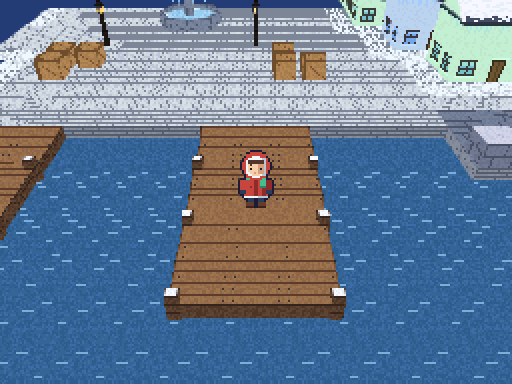
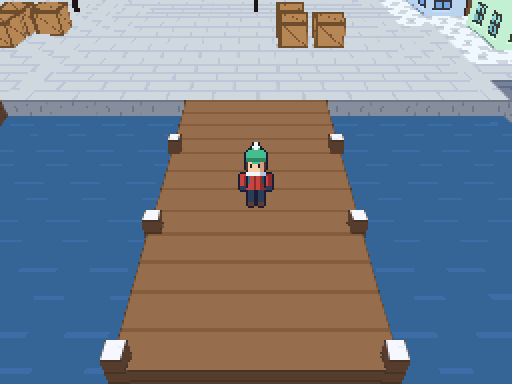
Smoother walk and run, calmer ground, closer camera
Five-pose walk and run cycles with a darker far leg, so the legs alternate clearly, a fixed
shoulder, and a run lean. Four phases per tile instead of two. Ground textures use big, soft
shapes, and the camera is close enough that they draw 1:1 at the player, which stops the
shimmer. Loads the town palette as 256 entries, because the last colour came out black.

diff --git a/tools/art/make_player.py b/tools/art/make_player.py
@@ -3,10 +3,10 @@
 #
 #   python tools/art/make_player.py art/sprites/player.png
 #
-# Sheet: 128x256, frames are 32x32, three columns per row.
-#   Rows 0-3: walk  (down, up, left, right)   columns: stand, step 1, step 2
-#   Rows 4-7: run   (down, up, left, right)   columns: passing, stride 1, stride 2
-#   Rows 8-11: bike (down, up, left, right)   columns: coast, pedal 1, pedal 2
+# Sheet: 256x512, frames are 32x32.
+#   Rows 0-3: walk  (down, up, left, right)  columns: passing, half, full, half, full
+#   Rows 4-7: run   (down, up, left, right)  columns as walk (the two legs alternate)
+#   Rows 8-11: bike (down, up, left, right)  columns: coast, pedal 1, pedal 2
 # Right is always the left row mirrored. 15 colours + transparent, so it converts to a
 # 4bpp (16 colour) DS texture.
 
@@ -165,80 +165,93 @@ def body_side(f, dx=0, dy=0, bottom=22):
     f.rect(12 + dx, 14 + dy, 18 + dx, 15 + dy, "W")
 
 
-# --- Walk --------------------------------------------------------------------------
+# --- Walk and run ------------------------------------------------------------------
+#
+# Both use five poses: passing, then half and full stride on each leg. q is the stride:
+# 0 passing, +-0.5 half, +-1 full. Positive means the near (left on screen) leg leads.
 
-def walk_down(step, back=False):
+STRIDES = (0, 0.5, 1, -0.5, -1)
+
+
+def line(f, x0, y0, x1, y1, width, c):
+    """A thick line, for limbs that pivot from a fixed joint."""
+    steps = max(abs(x1 - x0), abs(y1 - y0), 1)
+    for i in range(steps + 1):
+        x = round(x0 + (x1 - x0) * i / steps)
+        y = round(y0 + (y1 - y0) * i / steps)
+        f.rect(x, y, x + width - 1, y + width - 1, c)
+
+
+def limb_arm(f, sx, sy, hx, hy, sleeve, outline=True):
+    """An arm from a fixed shoulder to the hand. Only the hand moves, so the shoulder
+    stays put through the walk."""
+    if outline:
+        line(f, sx + 1, sy, hx + 1, hy, 2, "o")    # dark back edge, clean on the diagonal
+    line(f, sx, sy, hx, hy, 2, sleeve)
+    f.rect(hx, hy + 1, hx + 1, hy + 2, "N")
+
+
+def limb_leg(f, hip, foot, top, lift, trouser):
+    """A leg from the hip to the foot. The far leg uses a darker colour, so the eye can
+    tell the two legs apart and see them alternate."""
+    ankle = 28 - lift
+    line(f, hip, top, foot, ankle, 3, trouser)
+    f.rect(foot - 1, ankle + 1, foot + 2, ankle + 2, "B")
+
+
+def strides_front(q, full_lift, full_swing):
+    """Foot lifts and arm swings for the front and back views."""
+    lift = round(abs(q) * full_lift)
+    swing = round(abs(q) * full_swing)
+    lifts = (lift, 0) if q > 0 else (0, lift)
+    swings = (-swing, swing) if q > 0 else (swing, -swing)
+    return lifts, swings
+
+
+def walk_down(q, back=False):
     f = Frame()
-    # Opposite arm and leg: the arm on the side of the lifted foot swings back (shorter
-    # from the front), the other swings forward (longer).
-    lift = {0: (0, 0), 1: (1, 0), 2: (0, 1)}[step]
-    swing = {0: (0, 0), 1: (-2, 2), 2: (2, -2)}[step]
-    legs_front(f, *lift)
+    lifts, swings = strides_front(q, 2, 2)
+    legs_front(f, *lifts)
     torso_front(f, back)
-    arm_front(f, -1, 15, 22 + swing[0])
-    arm_front(f, 1, 15, 22 + swing[1])
+    arm_front(f, -1, 15, 22 + swings[0])
+    arm_front(f, 1, 15, 22 + swings[1])
     (head_back if back else head_front)(f)
     return f.outline()
 
 
-def walk_left(step):
+def walk_left(q):
     f = Frame()
-    if step == 0:
-        f.rect(14, 23, 17, 28, "N")
-        f.rect(13, 29, 17, 30, "B")
-    else:
-        front, back = (11, 17) if step == 1 else (12, 16)
-        f.rect(back, 23, back + 2, 27, "N")
-        f.rect(back, 28, back + 3, 29, "B")
-        f.rect(front + 1, 23, front + 3, 28, "N")
-        f.rect(front, 29, front + 3, 30, "B")
+    limb_arm(f, 16, 16, 16 - round(q * 3), 20, "r", outline=False)   # far arm, behind
+    limb_leg(f, 15, 15 + round(q * 3), 23, 0, "p")                   # far leg
+    limb_leg(f, 15, 15 - round(q * 3), 23, 0, "N")                   # near leg
     body_side(f)
-    ax = {0: 14, 1: 11, 2: 17}[step]  # arm swings opposite the front leg
-    arm_side(f, ax, 15, 22)
+    limb_arm(f, 14, 16, 14 + round(q * 3), 20, "r")                  # near arm
     head_side(f)
     return f.outline()
 
 
-# --- Run: longer strides, a bob, arms bent and pumping ------------------------------
-
-def run_down(step, back=False):
+def run_down(q, back=False):
     f = Frame()
-    dy = 0 if step == 0 else 1  # body dips on each stride
-    lift = {0: (0, 0), 1: (3, 0), 2: (0, 3)}[step]
-    legs_front(f, *lift, top=23 + dy)
+    dy = -1 if abs(q) == 1 else 0   # up off the ground at full stride
+    lifts, swings = strides_front(q, 3, 3)
+    legs_front(f, *lifts, top=23 + dy)
     torso_front(f, back, dy)
-    # Bent arms: the forward arm's mitten comes up to the chest, the other drops back.
-    arms = {0: (21, 21), 1: (18, 23), 2: (23, 18)}[step]
-    arm_front(f, -1, 15 + dy, arms[0] + dy)
-    arm_front(f, 1, 15 + dy, arms[1] + dy)
-    (head_back if back else head_front)(f, dy)
+    arm_front(f, -1, 15 + dy, 20 + swings[0] + dy)
+    arm_front(f, 1, 15 + dy, 20 + swings[1] + dy)
+    (head_back if back else head_front)(f, dy + 1)   # head dipped into the run
     return f.outline()
 
 
-def run_left(step):
+def run_left(q):
     f = Frame()
-    dy = 0 if step == 0 else 1
-    if step == 0:  # passing: one leg under the body, the other bent just behind it
-        f.rect(16, 23, 18, 26, "N")
-        f.rect(17, 26, 19, 27, "N")
-        f.rect(17, 28, 20, 28, "B")
-        f.rect(13, 23, 15, 28, "N")
-        f.rect(12, 29, 15, 30, "B")
-    else:
-        # Stride: legs open at an angle, the back foot just off the ground. Kept well
-        # short of horizontal so it reads as a jog, not a kick.
-        f.rect(16, 23 + dy, 18, 25 + dy, "N")   # back thigh
-        f.rect(17, 26, 19, 27, "N")             # back shin, angled down
-        f.rect(18, 28, 21, 28, "B")
-        f.rect(12, 23 + dy, 14, 27, "N")        # front leg reaching forward
-        f.rect(11, 28, 13, 28, "N")
-        f.rect(10, 29, 13, 30, "B")
-    body_side(f, -1, dy)  # leaning into the run
-    if step == 0:
-        arm_side(f, 14, 15 + dy, 21 + dy)
-    else:
-        arm_side(f, 13 if step == 1 else 16, 15 + dy, 21 + dy, bent=step == 1)
-    head_side(f, -1, dy)
+    dy = -1 if abs(q) == 1 else 0   # up off the ground at full stride
+    reach = round(q * 5)
+    limb_arm(f, 15, 16 + dy, 15 - round(q * 3), 19 + dy, "r", outline=False)
+    limb_leg(f, 15, 15 + reach, 23 + dy, 2 if q > 0 else 0, "p")     # the trailing foot lifts
+    limb_leg(f, 15, 15 - reach, 23 + dy, 2 if q < 0 else 0, "N")
+    body_side(f, -1, dy)
+    limb_arm(f, 14, 16 + dy, 14 + round(q * 3), 19 + dy, "r")        # bent, pumping
+    head_side(f, -2, dy)                                             # leaning into the run
     return f.outline()
 
 
@@ -318,13 +331,14 @@ def to_image(frame, mirror=False):
 
 
 def main(out):
-    sheet = Image.new("RGBA", (128, 512), (0, 0, 0, 0))
-    sets = [(walk_down, walk_left), (run_down, run_left), (bike_down, bike_left)]
-    for i, (down, left) in enumerate(sets):
+    sheet = Image.new("RGBA", (256, 512), (0, 0, 0, 0))
+    sets = [(walk_down, walk_left, STRIDES), (run_down, run_left, STRIDES),
+            (bike_down, bike_left, (0, 1, 2))]
+    for i, (down, left, poses) in enumerate(sets):
         rows = [
-            [down(s) for s in range(3)],
-            [down(s, back=True) for s in range(3)],
-            [left(s) for s in range(3)],
+            [down(s) for s in poses],
+            [down(s, back=True) for s in poses],
+            [left(s) for s in poses],
         ]
         for r, frames in enumerate(rows):
             for c, frame in enumerate(frames):

diff --git a/src/main.cpp b/src/main.cpp
@@ -234,13 +234,20 @@ static void draw_player(void)
     float px, pz;
     player_pos(&px, &pz);
 
-    // On foot: the leading foot for the first half of a step, then the passing frame.
-    // On the bike the pedals keep turning for the whole step and coast when stopped.
-    int frame;
-    if (player.mode == BIKE)
-        frame = player.step > 0 ? player.foot : 0;
-    else
-        frame = player.step > STEP_FRAMES[player.mode] / 2 ? player.foot : 0;
+    // On foot, each tile plays half stride, full stride, half stride, passing, on one leg
+    // and then the other. On the bike the pedals keep turning and coast when stopped.
+    int frame = 0;
+    if (player.step > 0 && player.mode == BIKE)
+    {
+        frame = player.foot;
+    }
+    else if (player.step > 0)
+    {
+        int len = STEP_FRAMES[player.mode];
+        int quarter = (len - player.step) * 4 / len;
+        if (quarter < 3)
+            frame = (player.foot == 1 ? 1 : 3) + (quarter == 1 ? 1 : 0);
+    }
     int u0 = frame * 32, v0 = (player.mode * 4 + player.dir) * 32;
 #ifdef TEST_POSE
     // Test builds only: show one sprite frame, for screenshots.
@@ -256,7 +263,7 @@ static void draw_player(void)
     // A 32x32 billboard leaning back to face the camera (about 39 degrees down).
     // Sized so one sprite pixel is one screen pixel at the game camera: any other scale
     // drops or doubles pixels unevenly, because the DS has no texture filtering.
-    const float w = 0.183f, h = 0.355f, up = 0.78f, back = -0.63f;
+    const float w = 0.125f, h = 0.2425f, up = 0.78f, back = -0.63f;
     NE_PolyBegin(GL_QUAD);
     NE_PolyColor(RGB15(31, 31, 31));
     NE_PolyTexCoord(u0, v0 + 32);
@@ -281,10 +288,12 @@ static const float VIEW_SIDE = 14.0f * CAM_ZOOM, VIEW_NORTH = 16.0f * CAM_ZOOM, 
 
 static void draw_scene(void)
 {
-    // Black 2 style: high and behind, tilted down at the player.
+    // Black 2 style: high and behind, tilted down at the player. At this distance a tile is
+    // 32 pixels wide at the player, so the 32x32 ground textures draw 1:1 and don't shimmer,
+    // and sideways movement is a whole number of pixels per frame.
     NE_CameraSet(camera,
-                 cam_x, 1.5f * CAM_ZOOM, cam_z + 1.7f * CAM_ZOOM,
-                 cam_x, 0.0f, cam_z - 0.15f,
+                 cam_x, 1.025f * CAM_ZOOM, cam_z + 1.16f * CAM_ZOOM,
+                 cam_x, 0.0f, cam_z - 0.10f,
                  0, 1, 0);
     NE_CameraUse(camera);
 
@@ -329,7 +338,10 @@ int main(int argc, char **argv)
     NE_Material *town_mat = NE_MaterialCreate();
     NE_MaterialTexLoad(town_mat, NE_PAL256, 128, 128, NE_TEXGEN_TEXCOORD, saltmere_tex_bin);
     NE_Palette *town_pal = NE_PaletteCreate();
-    NE_PaletteLoad(town_pal, saltmere_pal_bin, saltmere_pal_bin_size / 2, NE_PAL256);
+    // Always a full 256 entries: with a shorter palette the last colour came out black.
+    static u16 town_colours[256];
+    memcpy(town_colours, saltmere_pal_bin, saltmere_pal_bin_size);
+    NE_PaletteLoad(town_pal, town_colours, 256, NE_PAL256);
     NE_MaterialSetPalette(town_mat, town_pal);
 
     const u32 *offsets = (const u32 *)saltmere_bin;
@@ -341,7 +353,7 @@ int main(int argc, char **argv)
     }
 
     player_mat = NE_MaterialCreate();
-    NE_MaterialTexLoad(player_mat, NE_PAL16, 128, 512,
+    NE_MaterialTexLoad(player_mat, NE_PAL16, 256, 512,
                        (NE_TextureFlags)(NE_TEXGEN_TEXCOORD | NE_TEXTURE_COLOR0_TRANSPARENT),
                        player_tex_bin);
     NE_Palette *player_pal = NE_PaletteCreate();

diff --git a/tools/art/make_atlas.py b/tools/art/make_atlas.py
@@ -42,16 +42,16 @@ def shade(c, k):
     return tuple(max(0, min(255, int(v * k))) for v in c)
 
 
-# 0: plaza cobbles, staggered rows of rounded stones with dark joints.
+# Ground cells use big shapes and soft 2-texel joints. Thin lines swim as the camera
+# moves, because the DS has no mipmaps.
+# 0: plaza slabs, two rows of two.
 STONE = (200, 208, 220)
-JOINT = (172, 180, 196)
-fill(0, [STONE, shade(STONE, 0.95), shade(STONE, 1.04)])
-for row in range(4):
-    y0 = row * 8
-    off = 4 if row % 2 else 0
-    rect(0, 0, y0, C - 1, y0, JOINT)
-    for x in range(off, C, 8):
-        rect(0, x, y0, x, y0 + 7, JOINT)
+JOINT = (186, 194, 208)
+rect(0, 0, 0, C - 1, C - 1, STONE)
+rect(0, 0, 0, C - 1, 1, JOINT)
+rect(0, 0, 16, C - 1, 17, JOINT)
+rect(0, 0, 0, 1, 15, JOINT)
+rect(0, 16, 16, 17, C - 1, JOINT)
 
 # 1: cobbles under a thin dusting of snow
 for y in range(C):
@@ -65,20 +65,16 @@ fill(2, [(240, 244, 250), (228, 236, 246), (250, 252, 255)], [5, 3, 2])
 rect(2, 4, 20, 13, 21, (226, 234, 246))  # soft drift shadows
 rect(2, 18, 9, 27, 10, (226, 234, 246))
 
-# 3: dock planks, running across the tile, with nails
+# 3: dock planks, two boards across the tile
 WOOD = (150, 108, 72)
-fill(3, [WOOD, shade(WOOD, 0.92), shade(WOOD, 1.06)])
-for y0 in range(0, C, 8):
-    rect(3, 0, y0, C - 1, y0, (120, 86, 58))
-    for x in (3, 28):
-        put(3, x, y0 + 4, (60, 52, 50))
+rect(3, 0, 0, C - 1, C - 1, WOOD)
+rect(3, 0, 0, C - 1, 1, (128, 92, 62))
+rect(3, 0, 16, C - 1, 17, (128, 92, 62))
 
-# 4: sea water with light ripples
-fill(4, [(52, 100, 150), (46, 92, 140), (58, 110, 160)], [4, 3, 2])
-for y in range(2, C, 6):
-    x0 = rng.randrange(C)
-    for x in range(x0, x0 + 6):
-        put(4, x % C, y, (76, 126, 176))
+# 4: sea water, flat with one wide, soft ripple
+rect(4, 0, 0, C - 1, C - 1, (52, 100, 150))
+rect(4, 6, 10, 21, 11, (60, 110, 160))
+rect(4, 18, 24, 29, 25, (60, 110, 160))
 
 # 5: plain plaster wall (white, so vertex colours tint it)
 PLASTER = (236, 236, 236)
